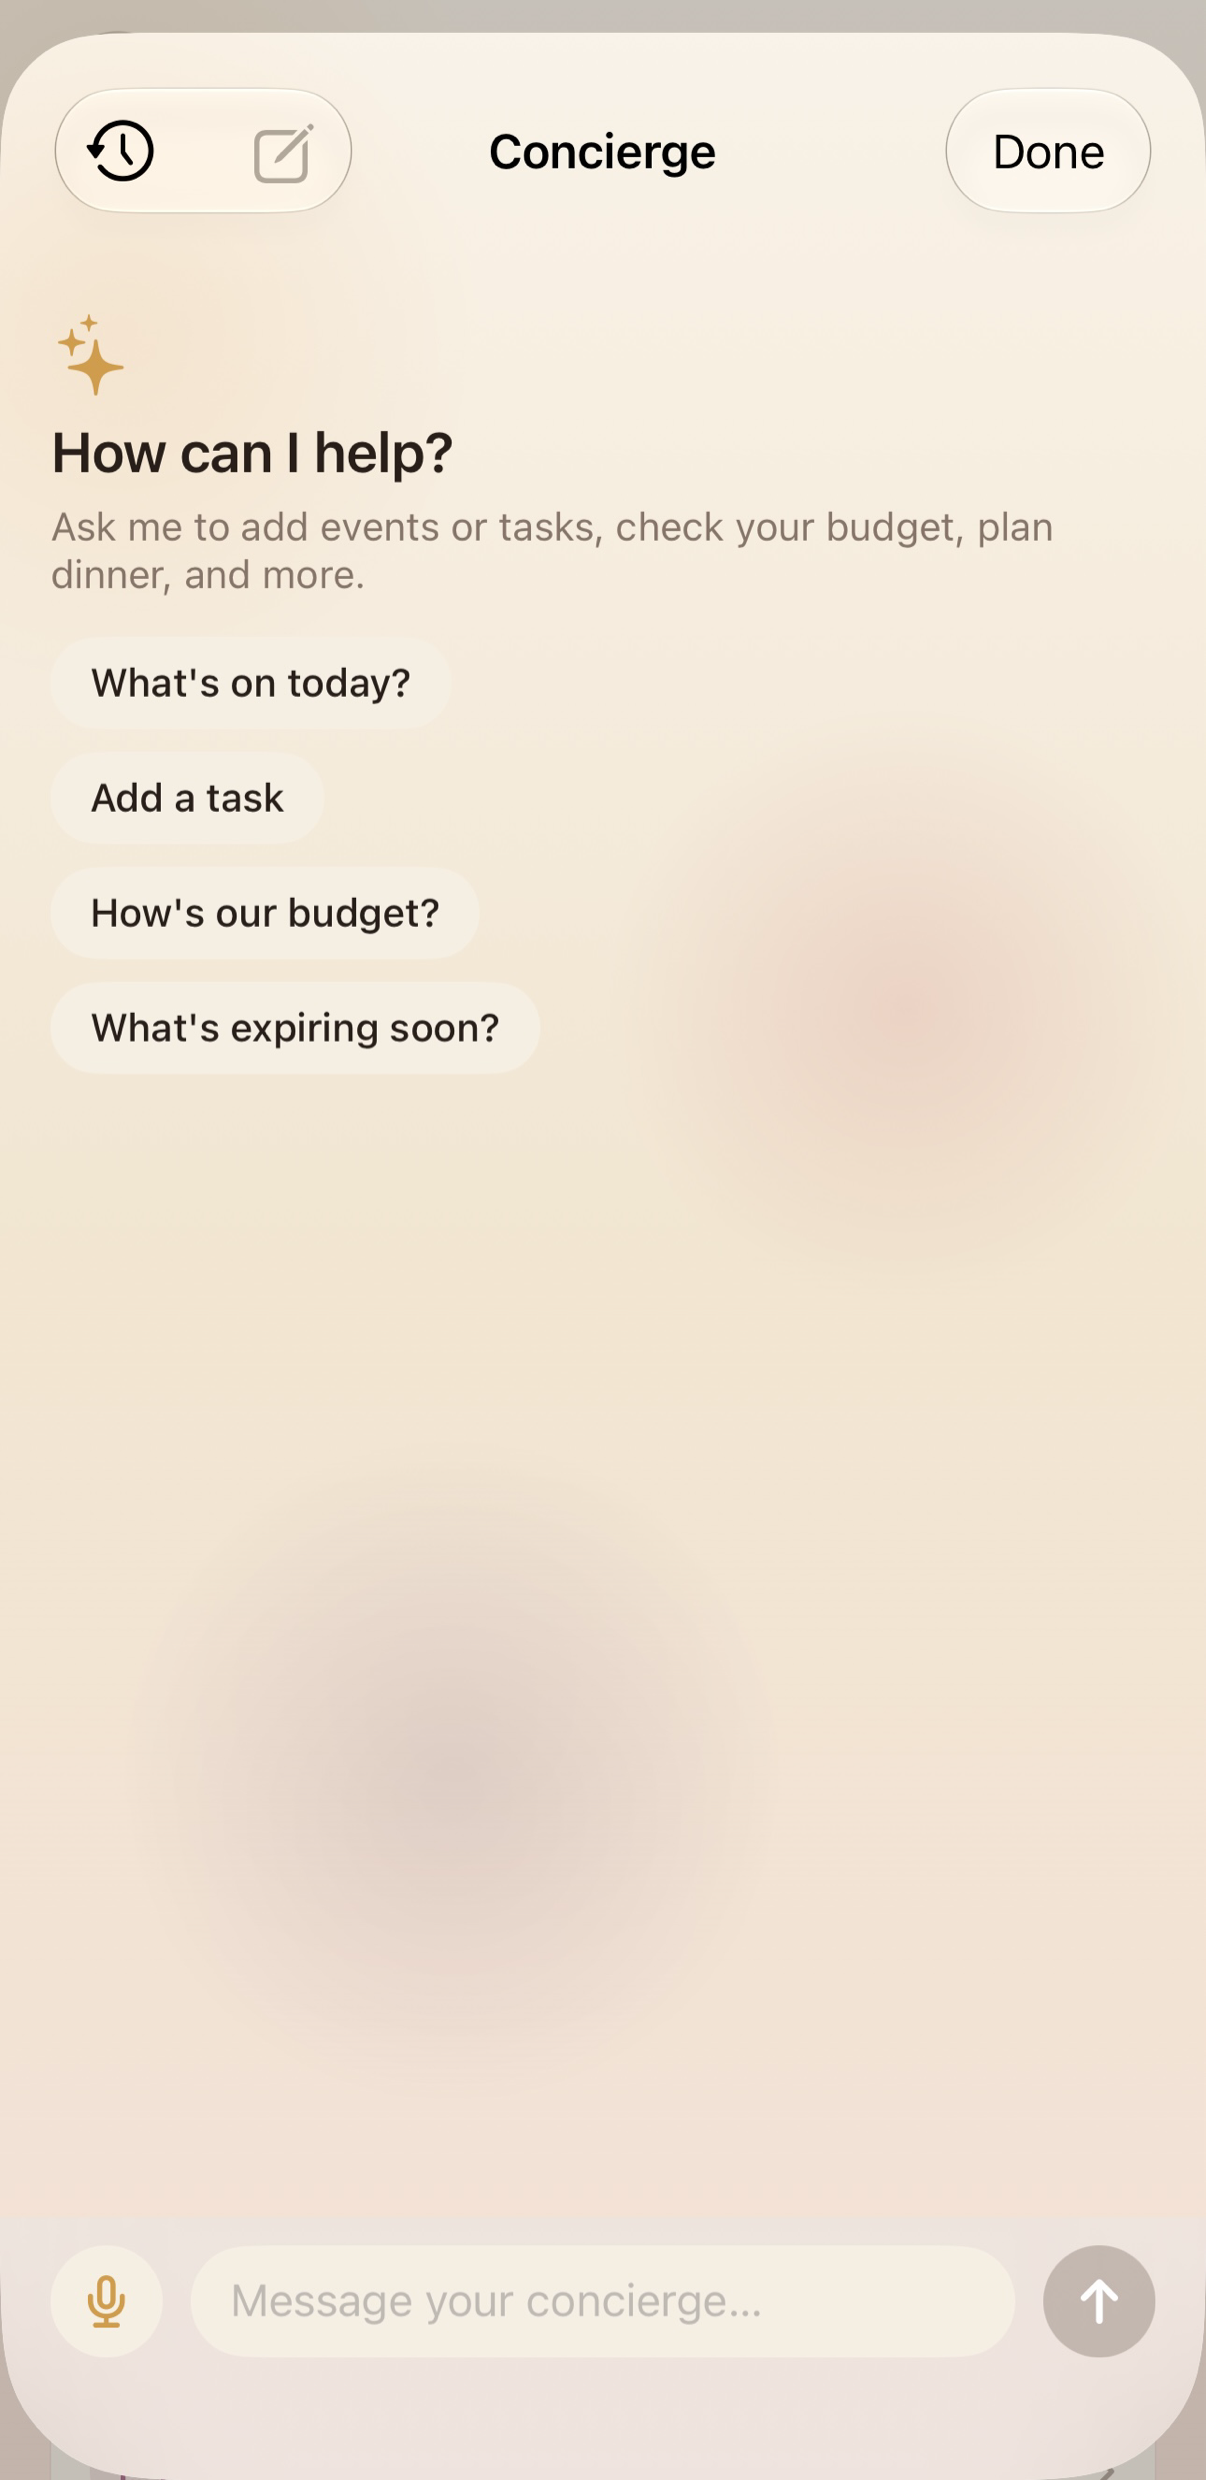
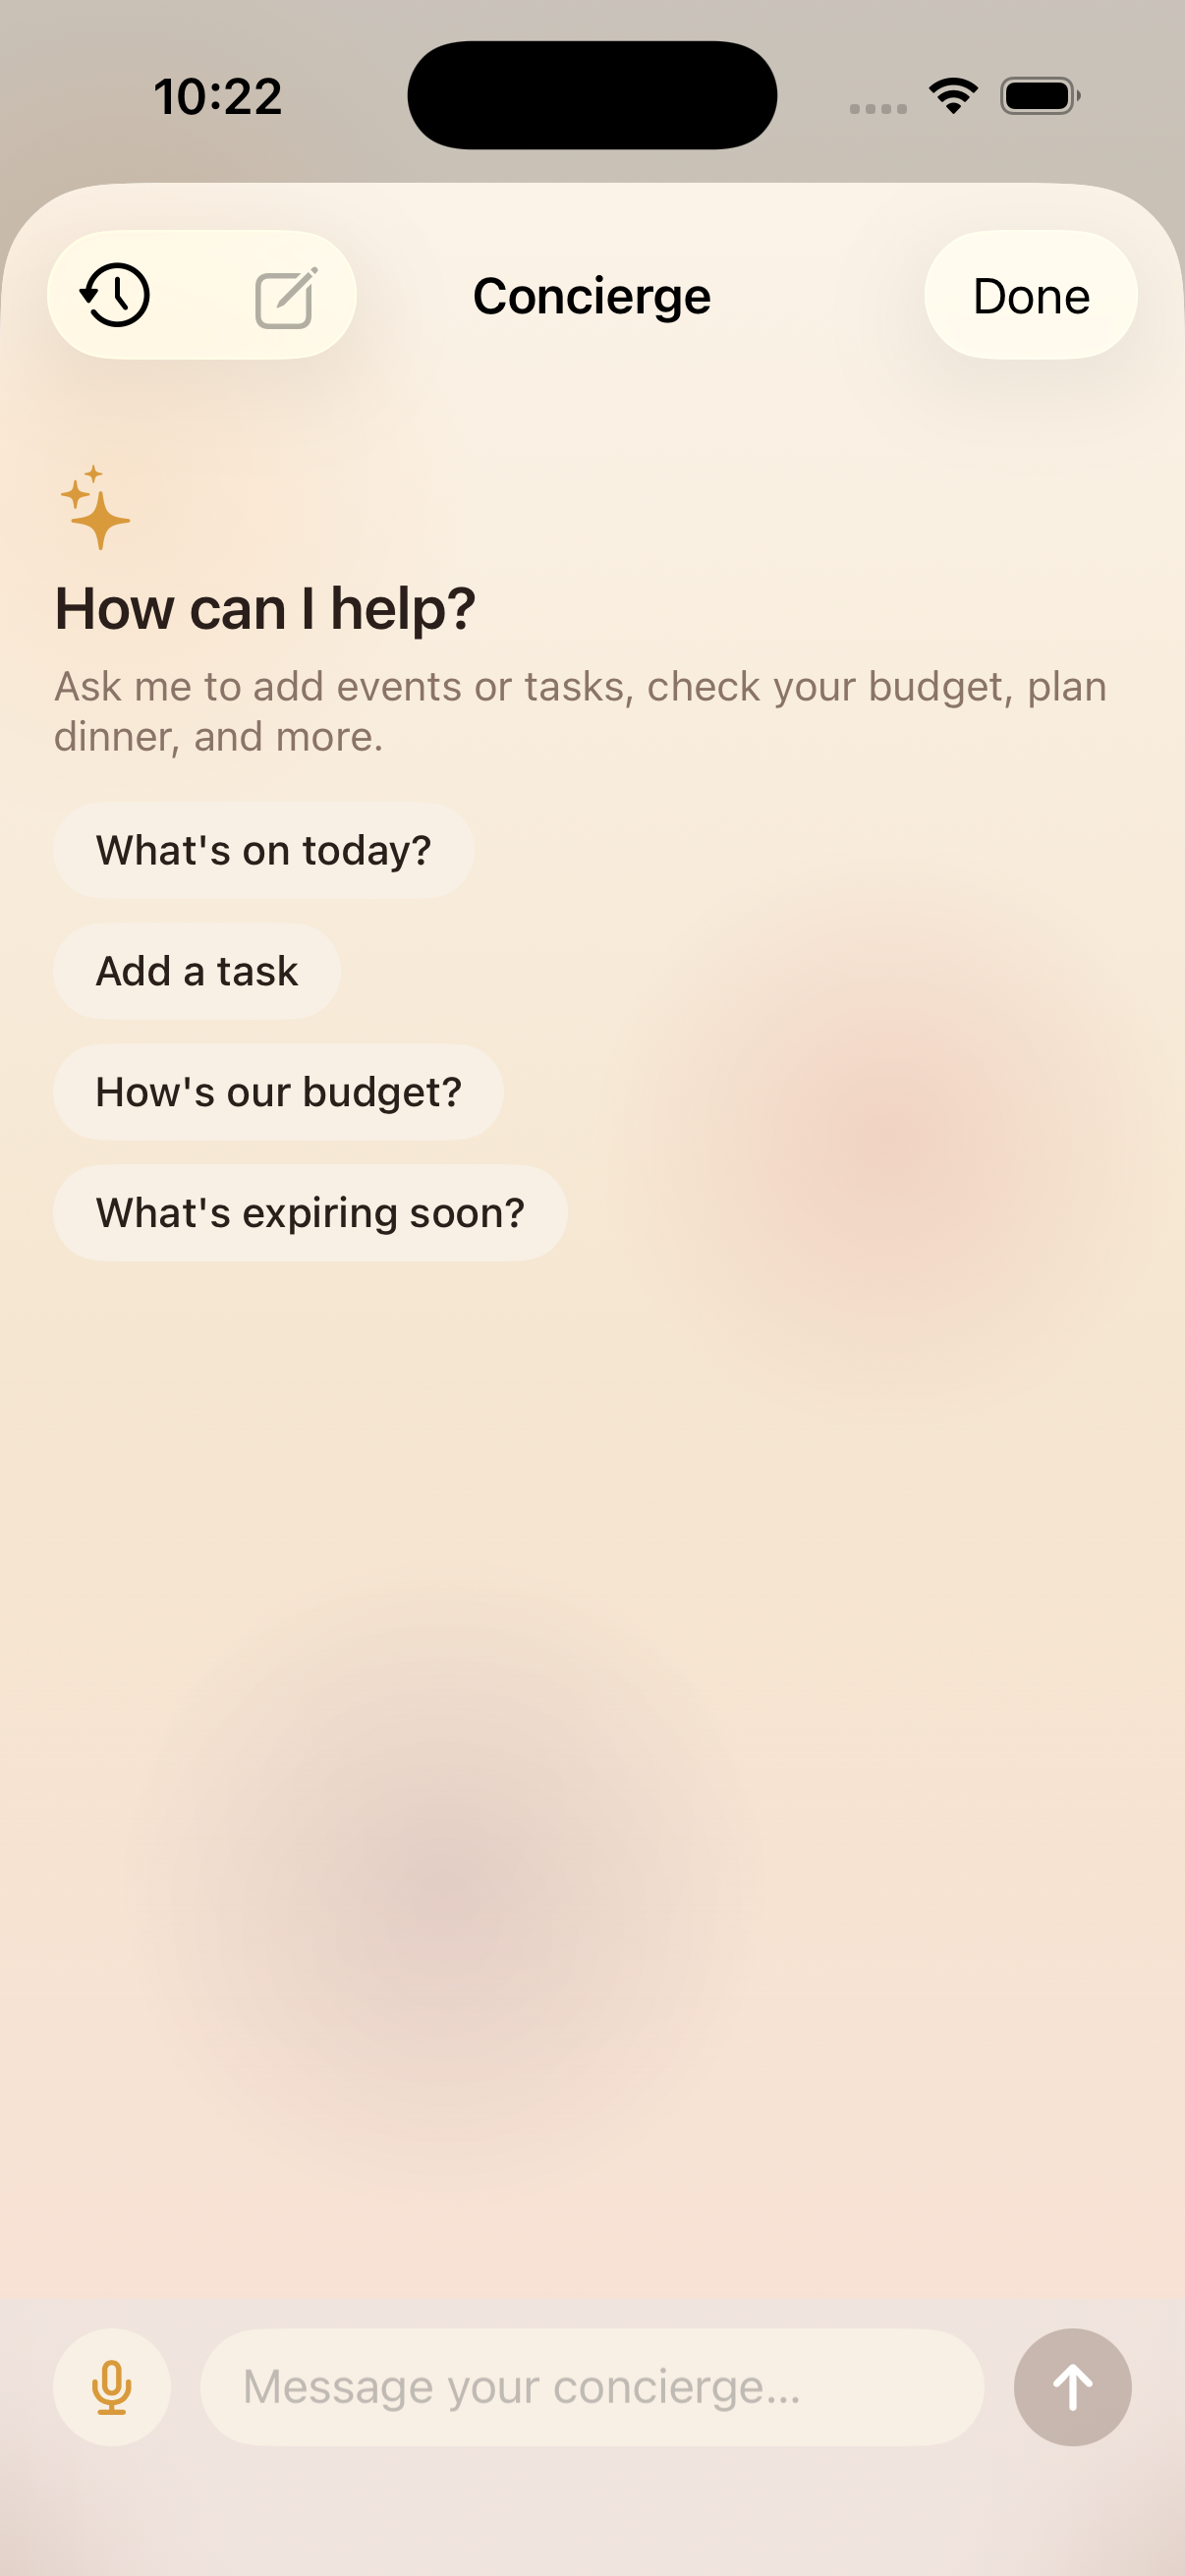
site: regenerate Concierge shots from a real AI brief
The committed shots showed a stale "William" user not in the local DB and were
cropped to an off-standard height. Regenerate both from the simulator with a
real Claude-backed brief, matching the 1206x2622 of every other shot.

- scripts/seed-demo-william.js: curated demo household (over-budget categories,
  this week's events, a decision, expiring pantry) so the brief is rich while
  real data stays private.
- ContentView: UITEST_SHEET=conciergechat harness hook to capture the chat's
  empty "How can I help?" state directly.
- ConciergeViewModel: skip the on-device summarizer under the screenshot harness
  so the brief renders the cleaner server AI bullets.
- index.html: correct stale height attrs to 2622.

diff --git a/scripts/seed-demo-william.js b/scripts/seed-demo-william.js
@@ -1,0 +1,66 @@
+// One-off: seed a curated "William" demo household for marketing screenshots.
+// Idempotent-ish: removes any prior William user/group first. LOCAL DB only.
+const bcrypt = require('bcryptjs');
+const FamilyDB = require('../database.js');
+
+const TODAY = new Date().toLocaleDateString('en-CA'); // YYYY-MM
+const MONTH = TODAY.slice(0, 7);
+function plus(days) {
+  const d = new Date(TODAY + 'T00:00:00');
+  d.setDate(d.getDate() + days);
+  return d.toLocaleDateString('en-CA');
+}
+
+(async () => {
+  const db = new FamilyDB();
+  const run = (sql, p = []) => new Promise((res, rej) => db.db.run(sql, p, function (e) { e ? rej(e) : res(this); }));
+  const get = (sql, p = []) => new Promise((res, rej) => db.db.get(sql, p, (e, r) => e ? rej(e) : res(r)));
+
+  // Clean any prior William
+  const prev = await get(`SELECT id FROM users WHERE username='william'`);
+  if (prev) {
+    const g = await get(`SELECT g.id FROM groups g JOIN group_members gm ON gm.group_id=g.id WHERE gm.user_id=? AND g.group_type='household'`, [prev.id]);
+    if (g) {
+      for (const t of ['receipts','budget_categories','appointments','tasks','pantry','decisions']) {
+        await run(`DELETE FROM ${t} WHERE group_id=?`, [g.id]).catch(() => {});
+      }
+      await run(`DELETE FROM group_members WHERE group_id=?`, [g.id]);
+      await run(`DELETE FROM groups WHERE id=?`, [g.id]);
+    }
+    await run(`DELETE FROM users WHERE id=?`, [prev.id]);
+  }
+
+  // User + household
+  const hash = await bcrypt.hash('demo1234', 10);
+  const user = await db.createUser({ username: 'william', password_hash: hash, name: 'William', email: '[email redacted]' });
+  const group = await db.createGroup({ name: 'The Hales', group_type: 'household', created_by: user.id });
+  await db.addGroupMember(group.id, { user_id: user.id, role: 'admin', added_by: user.id });
+  const gid = group.id;
+
+  // Budget categories + receipts to drive over-limit % (spent = sum of receipts by category/month)
+  const cats = [
+    { name: 'Kids', limit: 300, spent: 477, color: '#E2725B' },     // 159%
+    { name: 'Groceries', limit: 800, spent: 944, color: '#7A8B6F' }, // 118%
+    { name: 'Pets', limit: 150, spent: 159, color: '#D4A24E' },      // 106%
+    { name: 'Home', limit: 600, spent: 280, color: '#9C8FB0' },      // under
+  ];
+  for (const c of cats) {
+    await db.addBudgetCategory(c.name, c.limit, c.color, gid);
+    await db.addReceipt({ amount: c.spent, merchant: c.name + ' (month total)', date: plus(-3), category: c.name, added_by: 'william', group_id: gid });
+  }
+
+  // Appointments this week
+  await db.addAppointment({ title: 'Ferry to PEI', appointment_date: plus(1), appointment_time: '11:45', location: 'Caribou Ferry, Pictou', group_id: gid });
+  await db.addAppointment({ title: 'Brewery visit', appointment_date: plus(2), appointment_time: '14:00', location: 'Tatamagouche Brewing', group_id: gid });
+  await db.addAppointment({ title: 'Baseball game', appointment_date: plus(2), appointment_time: '18:30', location: 'Memorial Field', group_id: gid });
+
+  // Decision
+  await db.addDecision({ title: 'Which summer camp for the kids?', decision_type: 'poll', creator_name: 'William', status: 'active', group_id: gid, poll_options: ['Adventure camp', 'Arts camp'] });
+
+  // Pantry expiring soon
+  await db.addPantryItem({ item: 'Greek yogurt', category: 'Dairy', expiry_date: plus(1), added_by: 'william', group_id: gid });
+  await db.addPantryItem({ item: 'Baby spinach', category: 'Produce', expiry_date: TODAY, added_by: 'william', group_id: gid });
+
+  console.log(`Seeded William (user ${user.id}, group ${gid}), month ${MONTH}, login william / demo1234`);
+  db.close();
+})().catch(e => { console.error(e); process.exit(1); });

diff --git a/FamilyLife/App/ContentView.swift b/FamilyLife/App/ContentView.swift
@@ -75,6 +75,10 @@ enum ScreenshotHarness {
 
     static var openCare: Bool { env["UITEST_SHEET"] == "care" }
 
+    /// Present the concierge chat sheet directly (its empty "How can I help?"
+    /// state), bypassing the premium gate, for the marketing "ask" screenshot.
+    static var openConciergeChat: Bool { env["UITEST_SHEET"] == "conciergechat" }
+
     /// Full-screen view to present for screenshots that live deeper than a tab.
     static var screen: String? { env["UITEST_SCREEN"] }
 
@@ -98,6 +102,7 @@ struct MainTabView: View {
     @State private var selectedTab: MainTab = ScreenshotHarness.initialTab
     @State private var loadedTabs: Set<MainTab> = [ScreenshotHarness.initialTab, .home]
     @State private var showingChat = ScreenshotHarness.initialChat
+    @State private var showingConciergeChat = ScreenshotHarness.openConciergeChat
     #else
     @State private var selectedTab: MainTab = .home
     @State private var loadedTabs: Set<MainTab> = [.home]
@@ -214,6 +219,9 @@ struct MainTabView: View {
                 default:          EmptyView()
                 }
             }
+        }
+        .sheet(isPresented: $showingConciergeChat) {
+            ConciergeChatView()
         }
         #endif
         .onChange(of: deepLinkRouter.pendingType) {

diff --git a/FamilyLife/Views/Concierge/ConciergeViewModel.swift b/FamilyLife/Views/Concierge/ConciergeViewModel.swift
@@ -22,7 +22,9 @@ final class ConciergeViewModel {
             onDeviceSummary = nil
             state = .loaded(brief)
             // Privately re-summarize on-device when available (non-blocking for cards).
-            if OnDeviceSummarizer.isAvailable {
+            // Screenshot harness wants the server brief's clean bullet formatting.
+            let uitest = ProcessInfo.processInfo.environment["UITEST_AUTOLOGIN"] != nil
+            if !uitest, OnDeviceSummarizer.isAvailable {
                 onDeviceSummary = await OnDeviceSummarizer.summarize(brief)
             }
         } catch {

diff --git a/website/index.html b/website/index.html
@@ -460,12 +460,12 @@
         <div class="phone-pair">
           <div class="phone back phone-shot">
             <div class="phone-screen">
-              <img class="app-shot" src="assets/shots/concierge-ask.png" alt="Kinrows Concierge — ask in plain words to run the app for you" width="1206" height="2480" loading="lazy" decoding="async">
+              <img class="app-shot" src="assets/shots/concierge-ask.png" alt="Kinrows Concierge — ask in plain words to run the app for you" width="1206" height="2622" loading="lazy" decoding="async">
             </div>
           </div>
           <div class="phone front phone-shot">
             <div class="phone-screen">
-              <img class="app-shot" src="assets/shots/concierge-brief.png" alt="Kinrows Concierge — a warm morning brief with what's today, what's slipping and what needs attention" width="1206" height="2471" loading="lazy" decoding="async">
+              <img class="app-shot" src="assets/shots/concierge-brief.png" alt="Kinrows Concierge — a warm morning brief with what's today, what's slipping and what needs attention" width="1206" height="2622" loading="lazy" decoding="async">
             </div>
           </div>
         </div>